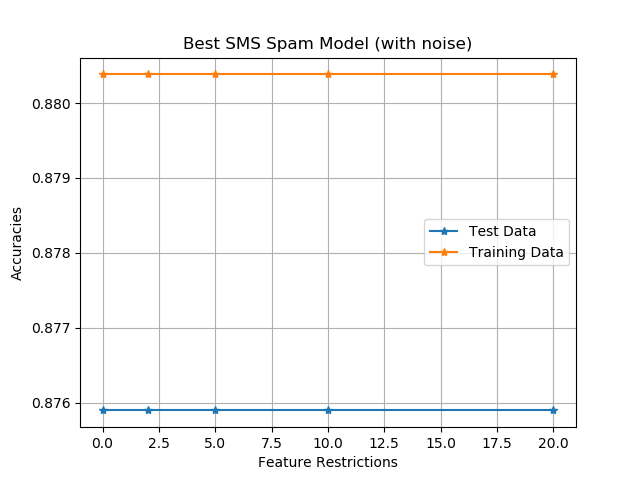
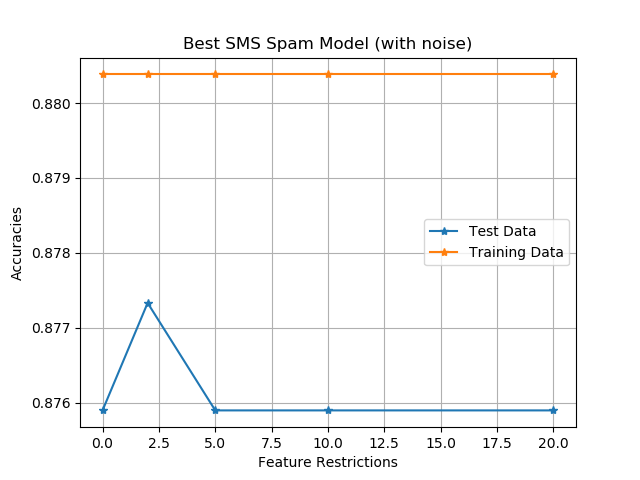
UPDATED: unittest for logistics and decision tree. Expected 0.96 without noise.

diff --git a/Assignment4/Code/model/RandomForestsModel.py b/Assignment4/Code/model/RandomForestsModel.py
@@ -26,6 +26,7 @@ class RandomForestModel(object):
     def fit(self, x, y, min_to_split=2):
 
         xs = []
+
         random.seed(self.seed)
         for _ in range(self.numTrees):
             # seed = random.randint(0, self.numTrees)
@@ -36,7 +37,7 @@ class RandomForestModel(object):
                                                           self.feature_restriction,
                                                           seed=None)
 
-                x = restrict_features(x, selected_indices)
+                # x = restrict_features(x, selected_indices)
             else:
                 selected_indices = [x for x in range(len(x[0]))]
 
@@ -48,18 +49,18 @@ class RandomForestModel(object):
             xs.append(x)
 
         #self.trees = [build_tree(x, y, min_to_split) for x in xs]
-        self.trees = Parallel(n_jobs=12)(delayed(build_tree)(x, y, min_to_split)
-                                         for x in xs)
+        self.trees = Parallel(n_jobs=12)(delayed(build_tree)(x, y, min_to_split, si)
+                                         for x, si in zip(xs, self.selected_indices))
 
     def predict(self, xTest, threshold=None):
 
         self.predictions = []
         print("Predicting results with {} tree(s).".format(len(self.trees)))
-        for selected_indices, tree in zip(self.selected_indices, self.trees):
-
+        # for selected_indices, tree in zip(self.selected_indices, self.trees):
+        for tree in self.trees:
             i_predictions = []
             for example in xTest:
-                example = [example[i] for i in selected_indices]
+                # example = [example[i] for i in selected_indices]
                 if threshold is None:
                     i_predictions.append(predict(tree, example))
                 else:
@@ -206,7 +207,7 @@ def get_entropy_S(yTrains):
     return -p0 * math.log2(p0) - p1 * math.log2(p1)
 
 
-def get_information_gains(xTrains, yTrains):
+def get_information_gains(xTrains, yTrains, selected_indices=[]):
     """
     Calculates information gains for all features.
     :param xTrains: examples from training data,
@@ -216,12 +217,16 @@ def get_information_gains(xTrains, yTrains):
             i.e., outlook, temperature, humidity, wind.
     """
     gains = []
-    for xTrain in zip(*xTrains):
-        gains.append(get_information_gain(xTrain, yTrains))
+    for i, xTrain in enumerate(zip(*xTrains)):
+        if i in selected_indices:
+            gains.append(get_information_gain(xTrain, yTrains))
+        else:
+            gains.append(-1)
+
     return gains
 
 
-def get_split(xTrains, yTrains):
+def get_split(xTrains, yTrains, selected_indices=[]):
     """
     Split dataset and create a node based on the feature [i] who has highest information gain.
 
@@ -234,11 +239,14 @@ def get_split(xTrains, yTrains):
                                   'gain': info. gain,
                                   'groups': [((examples), (ys)), ((examples), (ys))]}
     """
-    i_gails = get_information_gains(xTrains, yTrains)
+    i_gails = get_information_gains(xTrains, yTrains, selected_indices)
     # if sum(i_gails) == 0.0: print("No more gains found.")
     feature_index = i_gails.index(max(i_gails))
     threshold = get_feature_split_threshold(feature_index, xTrains)
     groups = split_by_feature(feature_index, xTrains, yTrains)
+
+    if feature_index not in selected_indices:
+        raise AssertionError("{} not in selected features.".format(feature_index))
 
     return {'index': feature_index, 'gain': max(i_gails), 'groups': groups,
             'num_label_1': groups[0][1].count(1),
@@ -293,7 +301,7 @@ def split_by_feature(feature_index, xTrains, yTrains, threshold=None):
     return (l_xTrains, l_yTrains), (r_xTrains, r_yTrains)
 
 
-def split(node, min_to_stop=100):
+def split(node, min_to_stop=100, selected_indices=[]):
     ((l_xTrains, l_yTrains), (r_xTrains, r_yTrains)) = node['groups']
     del (node['groups'])
 
@@ -313,19 +321,19 @@ def split(node, min_to_stop=100):
     if len(l_yTrains) < min_to_stop:
         node['left'] = Counter(l_yTrains).most_common(1)[0][0]
     else:
-        node['left'] = get_split(l_xTrains, l_yTrains)
-        split(node['left'], min_to_stop)
+        node['left'] = get_split(l_xTrains, l_yTrains, selected_indices)
+        split(node['left'], min_to_stop, selected_indices)
 
     if len(r_yTrains) < min_to_stop:
         node['right'] = Counter(r_yTrains).most_common(1)[0][0]
     else:
-        node['right'] = get_split(r_xTrains, r_yTrains)
-        split(node['right'], min_to_stop)
+        node['right'] = get_split(r_xTrains, r_yTrains, selected_indices)
+        split(node['right'], min_to_stop, selected_indices)
 
 
-def build_tree(xTrains, yTrains, min_to_stop=100):
-    root = get_split(xTrains, yTrains)
-    split(root, min_to_stop)
+def build_tree(xTrains, yTrains, min_to_stop=100, selected_indices=[]):
+    root = get_split(xTrains, yTrains, selected_indices)
+    split(root, min_to_stop, selected_indices)
     return root
 
 

diff --git a/Assignment4/Code/assignments/bsm_parameter_sweeps.py b/Assignment4/Code/assignments/bsm_parameter_sweeps.py
@@ -18,7 +18,7 @@ config = {
 }
 
 
-def parameter_sweeps_by_min_to_stop(min_to_stops=[1, 50, 100, 200, 400],
+def parameter_sweeps_by_min_to_stop(min_to_stops=[1, 5, 10, 50, 100],
                                     config=config,
                                     with_noise=True):
 
@@ -61,7 +61,7 @@ def parameter_sweeps_by_min_to_stop(min_to_stops=[1, 50, 100, 200, 400],
     return accuracies, test_accuracies
 
 
-def parameter_sweeps_by_feature_restriction(feature_restrictions=[0, 2, 5, 10, 20],
+def parameter_sweeps_by_feature_restriction(feature_restrictions=[10, 50, 100, 150, 250],
                                             config=config,
                                             with_noise=True):
 
@@ -104,6 +104,48 @@ def parameter_sweeps_by_feature_restriction(feature_restrictions=[0, 2, 5, 10, 2
     return accuracies, test_accuracies
 
 
+def parameter_sweeps_by_mi(mi_words=[20, 50, 100, 200, 250],
+                                    config=config,
+                                    with_noise=True):
+
+    accuracies = []
+    test_accuracies = []
+    for mi_word in mi_words:
+        xTrain, xTest, yTrain, yTests = get_featurized_xs_ys(numMutualInformationWords=mi_word,
+                                                             with_noise=with_noise)
+        print("Loaded all data.")
+        bsm = BestSpamModel(num_trees=config['num_trees'],
+                            use_bagging=config['use_bagging'],
+                            feature_restriction=config['feature_restriction'])
+        bsm.fit(xTrain, yTrain, config['iterations'], config['min_to_stop'])
+        # on hold-out data
+        yTestsPredicted = bsm.predict(xTest)
+        ev = Evaluation(yTests, yTestsPredicted)
+        print(ev)
+        accuracies.append((mi_word, ev.accuracy))
+
+        # on training data to show over-/under-fitting
+        yTrainPredicted = bsm.predict(xTrain)
+        ev = Evaluation(yTrain, yTrainPredicted)
+        test_accuracies.append((mi_word, ev.accuracy))
+
+    xlabel = 'N features selected by MI'
+    ylabel = 'Accuracies'
+    title = 'Best SMS Spam Model (with noise)'
+    fname = 'prob2_param_sweep_by_mi_{}.png' \
+        .format('_'.join([str(n) for n in mi_words]))
+    img_fname = os.path.join(report_path, fname)
+    legends = ['Test Data', 'Training Data']
+
+    draw_random_forest_accuracy_variances([accuracies, test_accuracies],
+                                          xlabel, ylabel,
+                                          title,
+                                          img_fname,
+                                          legends=legends)
+
+    return accuracies, test_accuracies
+
+
 if __name__ == '__main__':
     config = {
         'iterations': 10000,  # logistic regression
@@ -115,7 +157,7 @@ if __name__ == '__main__':
         'feature_selection_by_mi': 20,  # 0 means False, N > 0 means select top N words based on mi.
         'feature_selection_by_frequency': 10  # 0 means False, N > 0 means select top N words based on frequency.
     }
-    # parameter_sweeps_by_min_to_stop(config=config, with_noise=True)
-
+    parameter_sweeps_by_mi(config=config, with_noise=True)
+    parameter_sweeps_by_min_to_stop(config=config, with_noise=True)
     parameter_sweeps_by_feature_restriction(config=config,
                                             with_noise=True)

diff --git a/Assignment4/Code/test/test_decision_tree.py b/Assignment4/Code/test/test_decision_tree.py
@@ -1,5 +1,9 @@
 import unittest
 import model.DecisionTreeModel as dtm
+from Assignment4.Code import kDataPath
+from utils.Assignment4Support import TrainTestSplit, LoadRawData, Featurize
+from utils.EvaluationsStub import Evaluation
+from utils.data_loader import get_featurized_xs_ys
 
 
 class TestDecisionTreeModel(unittest.TestCase):
@@ -105,6 +109,23 @@ class TestDecisionTreeModel(unittest.TestCase):
         predictions = model.predict(xTrains)
         self.assertTrue(predictions == expected_predictions)
 
+    def test_predict_baseline(self):
+
+        # Loading data
+        (xRaw, yRaw) = LoadRawData(kDataPath)
+        (xTrainRaw, yTrainRaw, xTestRaw, yTestRaw) = TrainTestSplit(xRaw, yRaw)
+        yTrain = yTrainRaw
+        yTest = yTestRaw
+
+        model = dtm.DecisionTreeModel()
+        # xTrain, xTest = Featurize(xTrainRaw, xTestRaw)
+        xTrain, xTest, yTrain, yTest = get_featurized_xs_ys(with_noise=False)
+
+        model.fit(xTrain, yTrain, min_to_stop=2)
+        yTestPrediced = model.predict(xTest)
+
+        ev = Evaluation(yTest, yTestPrediced)
+        print(ev)
 
 if __name__ == '__main__':
     unittest.main()

diff --git a/Assignment4/Code/assignments/random_forests_part1.py b/Assignment4/Code/assignments/random_forests_part1.py
@@ -80,11 +80,12 @@ if __name__ == '__main__':
                                           use_bagging=True,
                                           feature_restriction=20,
                                           min_to_split=2,
-                                          seed=10)
+                                          seed=10,
+                                          with_noise=False)
 
     if config == 2:
         create_accuracy_comparison_tables(numTrees=20,
-                                          use_bagging=False,
+                                          use_bagging=True,
                                           feature_restriction=20,
                                           min_to_split=2,
                                           seed=10000,

diff --git a/Assignment4/Code/utils/bootstrap_sampling.py b/Assignment4/Code/utils/bootstrap_sampling.py
@@ -20,7 +20,7 @@ def get_bagging_indices(sample_size, seed=0):
     return bagging_indices
 
 
-def get_bagged_samples(samples, seed=0):
+def get_bagged_samples_pre(samples, seed=0):
     """
     Bootstraptes samples.
 
@@ -34,3 +34,16 @@ def get_bagged_samples(samples, seed=0):
         new_samples.append(samples[i])
 
     return new_samples
+
+
+def get_bagged_samples(samples, seed=0):
+    """
+    Bootstraptes samples.
+
+    :param samples: a list of samples, either xTrains or xTests
+    :param seed:
+    :return:
+    """
+    ss = len(samples)
+    return [samples[random.randint(0, ss - 1)] for _ in range(ss)]
+

diff --git a/Assignment4/Code/test/test_logistic_model.py b/Assignment4/Code/test/test_logistic_model.py
@@ -71,10 +71,12 @@ class TestLogisticModel(unittest.TestCase):
         yTest = yTestRaw
 
         model = lrm.LogisticRegressionModel()
-        xTrain, xTest = Featurize(xTrainRaw, xTestRaw)
+        #xTrain, xTest = Featurize(xTrainRaw, xTestRaw)
+        xTrain, xTest, yTrain, yTest = get_featurized_xs_ys(with_noise=False)
         # Extend xTrains and xTest with 1 at [0]
         xTrain = [[1] + x for x in xTrain]
         xTest = [[1] + x for x in xTest]
+        model.weights = [0.] * (len(xTrain[0]))
 
         model.fit(xTrain, yTrain, iterations=10000)
         yTestPrediced = model.predict(xTest)

diff --git a/Assignment4/Code/test/test_random_forest.py b/Assignment4/Code/test/test_random_forest.py
@@ -15,7 +15,7 @@ class TestRandomForestModel(unittest.TestCase):
                                     use_bagging=True,
                                     feature_restriction=fr,
                                     seed=100)
-            rfm.fit(xTrain, yTrain, min_to_split=20)
+            rfm.fit(xTrain, yTrain, min_to_split=100)
             yTestPredicted = rfm.predict(xTest)
             print(Evaluation(yTest, yTestPredicted))
 

diff --git a/Assignment4/Report/prob1_part1_tree_accurarices_20_bTrue,r20.md b/Assignment4/Report/prob1_part1_tree_accurarices_20_bTrue,r20.md
@@ -2,25 +2,25 @@
 |-------------------------|-------------------------|
 |           Full          |    0.8041606886657102   |
 |          Tree 0         |    0.8041606886657102   |
-|          Tree 1         |    0.8098995695839312   |
-|          Tree 2         |    0.8012912482065997   |
-|          Tree 3         |    0.8020086083213773   |
-|          Tree 4         |   0.27403156384505023   |
-|          Tree 5         |    0.7890961262553802   |
-|          Tree 6         |    0.7288378766140603   |
-|          Tree 7         |    0.7962697274031564   |
-|          Tree 8         |    0.8048780487804879   |
-|          Tree 9         |    0.7955523672883787   |
-|         Tree 10         |    0.793400286944046    |
-|         Tree 11         |    0.8041606886657102   |
-|         Tree 12         |    0.8113342898134863   |
-|         Tree 13         |    0.8106169296987088   |
-|         Tree 14         |    0.8020086083213773   |
-|         Tree 15         |    0.6262553802008608   |
-|         Tree 16         |    0.8034433285509326   |
+|          Tree 1         |    0.8041606886657102   |
+|          Tree 2         |    0.8041606886657102   |
+|          Tree 3         |    0.8041606886657102   |
+|          Tree 4         |    0.8041606886657102   |
+|          Tree 5         |    0.8041606886657102   |
+|          Tree 6         |    0.8041606886657102   |
+|          Tree 7         |    0.8041606886657102   |
+|          Tree 8         |    0.8041606886657102   |
+|          Tree 9         |    0.8041606886657102   |
+|         Tree 10         |    0.8041606886657102   |
+|         Tree 11         |    0.8070301291248206   |
+|         Tree 12         |    0.8041606886657102   |
+|         Tree 13         |    0.8041606886657102   |
+|         Tree 14         |    0.8041606886657102   |
+|         Tree 15         |    0.8041606886657102   |
+|         Tree 16         |    0.802725968436155    |
 |         Tree 17         |    0.8041606886657102   |
-|         Tree 18         |    0.8070301291248206   |
-|         Tree 19         |    0.6140602582496413   |
+|         Tree 18         |    0.8041606886657102   |
+|         Tree 19         |    0.8041606886657102   |
 
 Use Bagging: True
 Feature Restriction: 20

diff --git a/Assignment4/Report/prob1_part1_tree_accurarices_10_bTrue,r20.md b/Assignment4/Report/prob1_part1_tree_accurarices_10_bTrue,r20.md
@@ -2,17 +2,17 @@
 |-------------------------|-------------------------|
 |           Full          |    0.8041606886657102   |
 |          Tree 0         |    0.8041606886657102   |
-|          Tree 1         |    0.8256814921090387   |
-|          Tree 2         |    0.6915351506456241   |
-|          Tree 3         |    0.8041606886657102   |
-|          Tree 4         |    0.7948350071736011   |
-|          Tree 5         |    0.3629842180774749   |
-|          Tree 6         |    0.6814921090387375   |
-|          Tree 7         |    0.8091822094691535   |
-|          Tree 8         |    0.7883787661406025   |
-|          Tree 9         |    0.7173601147776184   |
+|          Tree 1         |    0.8041606886657102   |
+|          Tree 2         |    0.8020086083213773   |
+|          Tree 3         |    0.8048780487804879   |
+|          Tree 4         |    0.8041606886657102   |
+|          Tree 5         |    0.8048780487804879   |
+|          Tree 6         |    0.8034433285509326   |
+|          Tree 7         |    0.8077474892395983   |
+|          Tree 8         |    0.8048780487804879   |
+|          Tree 9         |    0.8041606886657102   |
 
 Use Bagging: True
 Feature Restriction: 20
-MinToSplit: 2
+MinToSplit: 100
 Seed for random: 10
